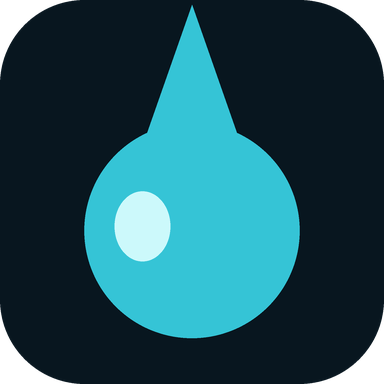
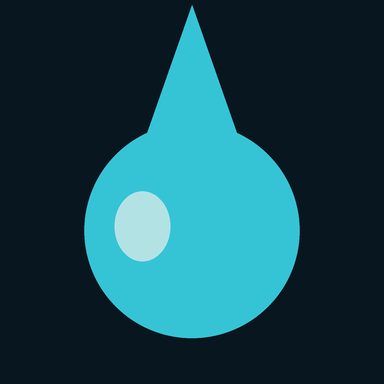
Add files via upload

diff --git a/sw.js b/sw.js
@@ -1,8 +1,8 @@
 /* Drink — Service Worker: Offline-Betrieb und die tägliche, lautlose Erinnerung. */
 
-const CACHE = 'drink-v8';
+const CACHE = 'drink-v9';
 const SHELL = [
-  './', './index.html', './styles.css', './app.js', './manifest.webmanifest',
+  './', './index.html', './styles.css', './app.js', './manifest.json',
   './i18n.js', './languages.js',
   './favicon.ico', './favicon.svg',
   './icons/favicon-16.png', './icons/favicon-32.png', './icons/apple-touch-icon.png',
@@ -51,7 +51,14 @@ self.addEventListener('fetch', e => {
       }
       return res;
     } catch (err) {
-      return (await caches.match('./index.html')) || Response.error();
+      /* Nur beim Seitenaufruf auf die Startseite ausweichen. Täte man das für
+         jede Anfrage, bekäme Android für ein fehlendes Icon die index.html
+         geliefert — eine gültige Antwort mit HTML darin, also ein Icon, das
+         stumm leer bleibt. Ein ehrlicher Fehler ist hier besser. */
+      if (req.mode === 'navigate') {
+        return (await caches.match('./index.html')) || Response.error();
+      }
+      return Response.error();
     }
   })());
 });

diff --git a/index.html b/index.html
@@ -5,7 +5,7 @@
 <meta name="viewport" content="width=device-width, initial-scale=1, viewport-fit=cover">
 <title>Drink</title>
 <meta name="description" content="Drink enough. Every day.">
-<link rel="manifest" href="manifest.webmanifest">
+<link rel="manifest" href="manifest.json">
 <meta name="theme-color" content="#08161F">
 <meta name="apple-mobile-web-app-capable" content="yes">
 <meta name="mobile-web-app-capable" content="yes">
@@ -289,6 +289,6 @@
 
 <!-- Cloudflare Web Analytics — Token im Dashboard holen und hier eintragen. -->
 <script type="module" src="https://static.cloudflareinsights.com/beacon.min.js"
-        data-cf-beacon='{"token": "TOKEN"}'></script>
+        data-cf-beacon='{"token": "b0104e23676648ac8d6184472b5d7d15"}'></script>
 </body>
 </html>

diff --git a/README.md b/README.md
@@ -89,6 +89,17 @@ So kommst du an deinen Token:
 
 Ein Cloudflare-Konto reicht, die Domain muss nicht bei Cloudflare liegen — genau deshalb funktioniert das auf GitHub Pages. Lässt du `TOKEN` stehen, wird nichts gezählt und die App läuft unverändert.
 
+## Wenn das Icon beim Installieren fehlt
+
+Fast immer liegt es daran, dass Android das Manifest nicht lesen kann — dann nimmt der Launcher einen grauen Platzhalter oder den ersten Buchstaben. Der Reihe nach prüfen:
+
+1. **Manifest direkt aufrufen:** `https://deinname.github.io/drink/manifest.json` im Browser öffnen. Erscheint eine 404-Seite, fehlt die Datei oder heißt anders als der Verweis in `index.html`. Beide müssen `manifest.json` sagen.
+2. **Ein Icon direkt aufrufen:** `…/drink/icons/icon-192.png`. Kommt kein Tropfen, wurde der Ordner `icons` nicht mitgeladen.
+3. **Am Rechner prüfen:** Chrome, F12, Reiter *Application → Manifest*. Dort stehen alle Icons mit Vorschau, und Chrome nennt jeden abgelehnten Eintrag samt Grund.
+4. **Neu installieren:** Android tauscht das Icon einer bereits installierten App bei einem Update **nicht** aus, auch nicht nach dem Löschen der Browserdaten. Die App vom Startbildschirm entfernen, unter *Einstellungen → Apps* auch die Reste löschen, dann neu installieren.
+
+Häufigste Stolpersteine im Manifest, alle hier vermieden: eine angegebene Größe, die nicht den echten Pixelmaßen entspricht (Chrome verwirft solche Einträge stillschweigend), fehlende 192 und 512 mit `purpose: "any"`, und transparente Ecken bei den Launcher-Icons.
+
 ## Auf den Startbildschirm legen
 
 - **Android (Chrome):** Menü ⋮ → *App installieren*. Alternativ erscheint im Menü der App unter *Über & Daten* ein Knopf.
